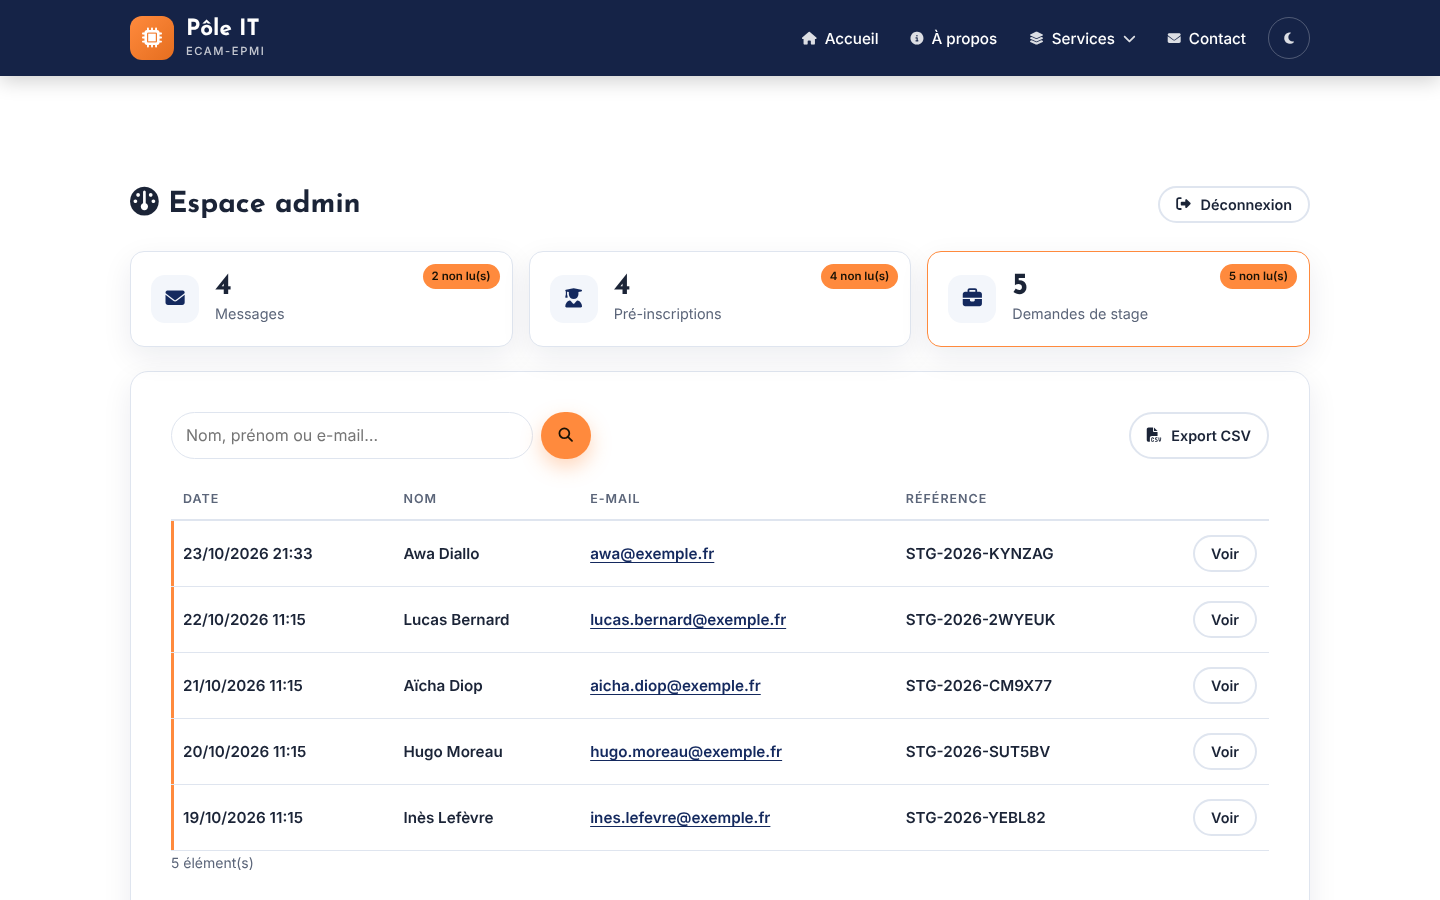
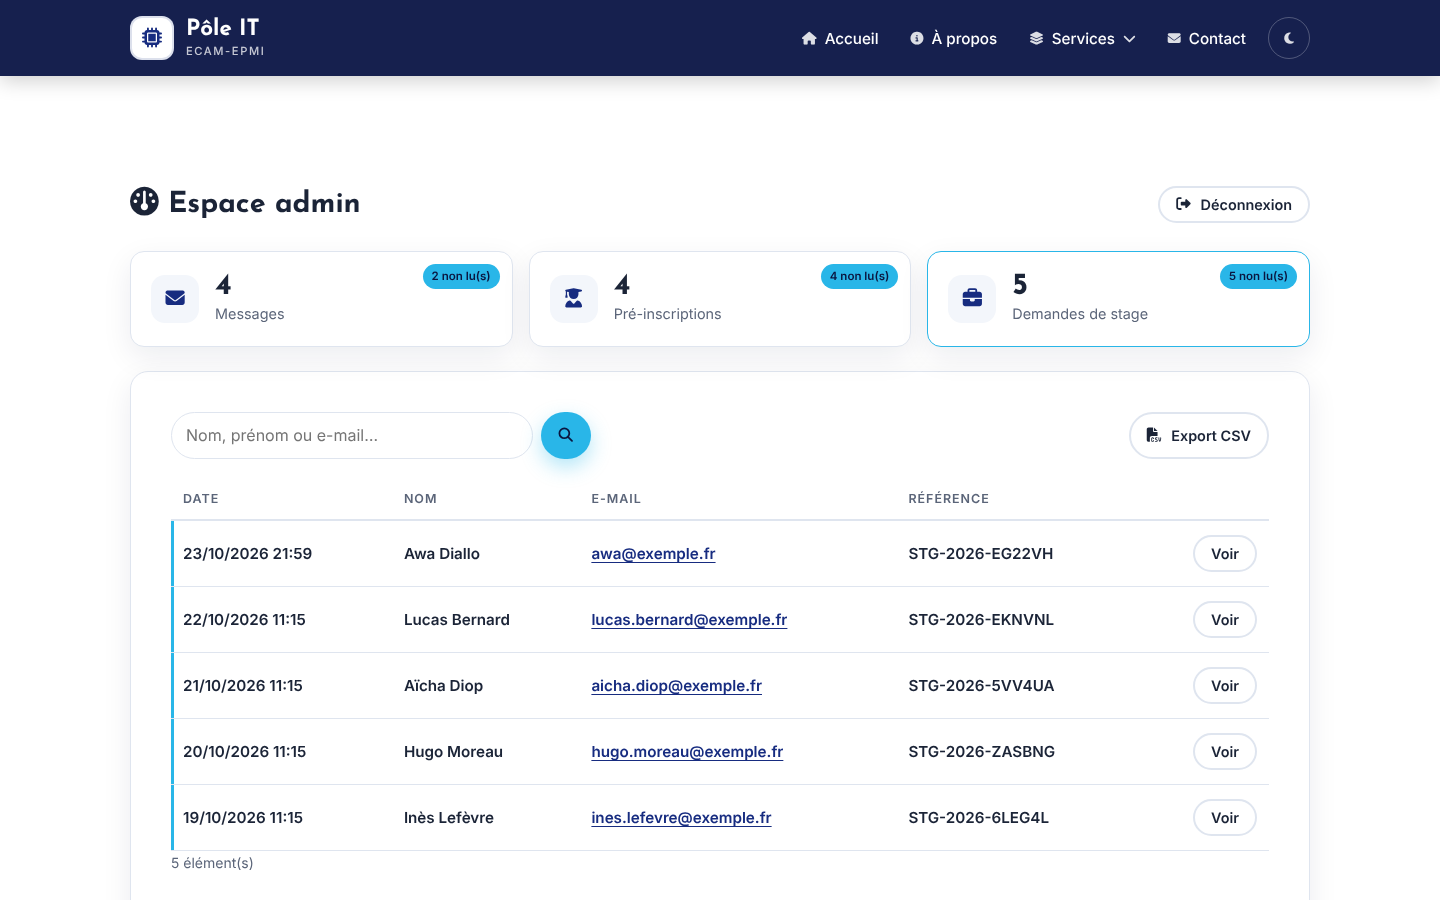
Couleurs ECAM, menu Services, admin et formulaire d'admission
- Palette alignée sur le logo de l'école (bleu #172c80, accent cyan)
- Menu Services : pont de survol, survol lisible en thème sombre, en-tête
  plus contrasté sur les photos
- Admin : ouverture sur l'onglet contenant la demande non lue la plus récente,
  identifiants de démo retirés de la page de connexion
- Retrait du programme « Mastère spécialisé »

Claude-Session: https://claude.ai/code/session_014D3fcoM5SpGnEAzuKeJhJf

diff --git a/public/assets/css/style.css b/public/assets/css/style.css
@@ -5,11 +5,11 @@
    ========================================================================== */
 
 :root {
-    --navy-900: #0b1a3f;
-    --navy-800: #14295e;
-    --navy-600: #24439a;
-    --orange: #ff8a3d;
-    --orange-dark: #e56e1f;
+    --navy-900: #0c1747;
+    --navy-800: #172c80;
+    --navy-600: #3150b4;
+    --cyan: #29b6e8;
+    --cyan-dark: #0f86b8;
 
     --bg: #ffffff;
     --bg-alt: #f3f6fb;
@@ -18,7 +18,7 @@
     --muted: #5b6579;
     --border: #dfe5ef;
     --primary: var(--navy-800);
-    --accent: var(--orange);
+    --accent: var(--cyan);
     --danger: #c62828;
     --success: #1f7a4d;
     --shadow: 0 10px 30px rgba(15, 30, 70, .08);
@@ -112,11 +112,12 @@ code { background: var(--bg-alt); padding: .1em .4em; border-radius: 4px; }
 .site-header {
     position: fixed; inset: 0 0 auto; z-index: 50; height: var(--header-h);
     color: #fff; transition: background .3s, box-shadow .3s;
+    background: linear-gradient(rgba(12, 23, 71, .75), rgba(12, 23, 71, 0));
 }
 .site-header.is-scrolled,
 body:not(:has(.hero)) .site-header,
 .nav-open .site-header {
-    background: rgba(11, 26, 63, .96);
+    background: rgba(12, 23, 71, .96);
     backdrop-filter: blur(10px);
     box-shadow: 0 4px 20px rgba(0, 0, 0, .2);
 }
@@ -127,7 +128,7 @@ body:not(:has(.hero)) main { padding-top: var(--header-h); }
 .brand { display: inline-flex; align-items: center; gap: 12px; color: inherit; text-decoration: none; }
 .brand-mark {
     display: grid; place-items: center; width: 44px; height: 44px; border-radius: 12px;
-    background: linear-gradient(135deg, var(--orange), var(--orange-dark)); color: #fff; font-size: 1.25rem;
+    background: #fff; color: var(--navy-800); font-size: 1.25rem; box-shadow: inset 0 0 0 2px rgba(23, 44, 128, .15);
 }
 .brand-text { font-family: var(--font-title); font-weight: 700; font-size: 1.4rem; line-height: 1; display: flex; flex-direction: column; }
 .brand-text small { font-family: var(--font-body); font-size: .7rem; font-weight: 500; letter-spacing: .14em; opacity: .75; margin-top: 4px; }
@@ -140,19 +141,20 @@ body:not(:has(.hero)) main { padding-top: var(--header-h); }
     transition: background .2s;
 }
 .main-nav a:hover, .main-nav button:hover { background: rgba(255, 255, 255, .12); }
-.main-nav a[aria-current="page"], .main-nav button.is-current { background: rgba(255, 138, 61, .22); color: #ffd2b3; }
+.main-nav a[aria-current="page"], .main-nav button.is-current { background: rgba(41, 182, 232, .22); color: #bfeaff; }
 .main-nav i { font-size: .85em; opacity: .85; }
 .caret { transition: transform .2s; }
 
 .has-submenu { position: relative; }
+.has-submenu::after { content: ""; position: absolute; left: 0; right: 0; top: 100%; height: 12px; } /* pont invisible : le menu reste ouvert pendant que la souris descend */
 .submenu {
     position: absolute; top: calc(100% + 8px); left: 0; min-width: 220px; list-style: none; margin: 0; padding: 8px;
     background: #fff; border-radius: var(--radius); box-shadow: var(--shadow-lg);
     opacity: 0; visibility: hidden; transform: translateY(-6px); transition: .2s;
 }
 .submenu a { color: var(--navy-900); width: 100%; border-radius: var(--radius-sm); }
-.submenu a:hover { background: var(--bg-alt); }
-.submenu a[aria-current="page"] { background: #fff1e7; color: var(--orange-dark); }
+.submenu a:hover { background: #eef2fb; color: var(--navy-800); }
+.submenu a[aria-current="page"] { background: #e6f6fd; color: var(--cyan-dark); }
 .has-submenu.is-open .submenu,
 .has-submenu:hover .submenu { opacity: 1; visibility: visible; transform: none; }
 .has-submenu.is-open .caret { transform: rotate(180deg); }
@@ -179,7 +181,7 @@ body:not(:has(.hero)) main { padding-top: var(--header-h); }
     .has-submenu.is-open .submenu { display: block; }
     .submenu a { color: #fff; }
     .submenu a:hover { background: rgba(255, 255, 255, .1); }
-    .submenu a[aria-current="page"] { background: rgba(255, 138, 61, .22); color: #ffd2b3; }
+    .submenu a[aria-current="page"] { background: rgba(41, 182, 232, .22); color: #bfeaff; }
     .main-nav .theme-toggle { width: 42px; align-self: flex-start; margin-top: 8px; }
 }
 
@@ -193,7 +195,7 @@ body:not(:has(.hero)) main { padding-top: var(--header-h); }
 @keyframes kenburns { from { transform: scale(1); } to { transform: scale(1.08); } }
 .hero-overlay {
     position: absolute; inset: 0;
-    background: linear-gradient(110deg, rgba(11, 26, 63, .92) 0%, rgba(11, 26, 63, .65) 50%, rgba(11, 26, 63, .35) 100%);
+    background: linear-gradient(110deg, rgba(12, 23, 71, .92) 0%, rgba(12, 23, 71, .65) 50%, rgba(12, 23, 71, .35) 100%);
 }
 .hero-content { position: relative; padding-block: 120px 80px; max-width: var(--container); }
 .hero h1 { font-size: clamp(2.6rem, 7vw, 5.5rem); margin-bottom: .3em; }
@@ -216,8 +218,8 @@ body:not(:has(.hero)) main { padding-top: var(--header-h); }
 }
 .btn:hover { transform: translateY(-2px); }
 .btn:active { transform: none; }
-.btn-primary { background: var(--accent); color: #1a1205; box-shadow: 0 8px 20px rgba(255, 138, 61, .35); }
-.btn-primary:hover { background: #ff9d5c; }
+.btn-primary { background: var(--accent); color: #0a1640; box-shadow: 0 8px 20px rgba(41, 182, 232, .35); }
+.btn-primary:hover { background: #52c7f0; }
 .btn-ghost { border-color: rgba(255, 255, 255, .7); color: #fff; }
 .btn-ghost:hover { background: #fff; color: var(--navy-900); }
 .btn-ghost-dark { border-color: var(--border); color: var(--text); background: var(--surface); }
@@ -246,7 +248,7 @@ body:not(:has(.hero)) main { padding-top: var(--header-h); }
 .check-list li::before {
     content: "\f00c"; font-family: "Font Awesome 6 Free"; font-weight: 900; position: absolute; left: 0; top: 2px;
     width: 22px; height: 22px; display: grid; place-items: center; font-size: .7rem;
-    border-radius: 50%; background: rgba(255, 138, 61, .18); color: var(--orange-dark);
+    border-radius: 50%; background: rgba(41, 182, 232, .18); color: var(--cyan-dark);
 }
 
 /* ---------- Statistiques ---------- */
@@ -267,7 +269,7 @@ body:not(:has(.hero)) main { padding-top: var(--header-h); }
     padding: 32px 28px; box-shadow: var(--shadow); transition: transform .25s, box-shadow .25s, border-color .25s;
     color: inherit; text-decoration: none; display: flex; flex-direction: column;
 }
-.card:hover { transform: translateY(-6px); box-shadow: var(--shadow-lg); border-color: rgba(255, 138, 61, .5); }
+.card:hover { transform: translateY(-6px); box-shadow: var(--shadow-lg); border-color: rgba(41, 182, 232, .5); }
 .card h3 { font-size: 1.3rem; }
 .card p { color: var(--muted); }
 .card .link-arrow { margin-top: auto; }
@@ -322,7 +324,7 @@ body:not(:has(.hero)) main { padding-top: var(--header-h); }
 .alert { padding: 14px 18px; border-radius: var(--radius-sm); margin: 24px 0; border-left: 4px solid; font-weight: 500; }
 .alert-success { background: rgba(31, 122, 77, .1); border-color: var(--success); color: var(--success); }
 .alert-error { background: rgba(198, 40, 40, .1); border-color: var(--danger); color: var(--danger); }
-.alert-info { background: rgba(36, 67, 154, .08); border-color: var(--navy-600); color: var(--text); }
+.alert-info { background: rgba(49, 80, 180, .08); border-color: var(--navy-600); color: var(--text); }
 :root[data-theme="dark"] .alert-success { color: #6fd7a3; }
 :root[data-theme="dark"] .alert-error { color: #ff8a8a; }
 @media (prefers-color-scheme: dark) {
@@ -341,19 +343,19 @@ body:not(:has(.hero)) main { padding-top: var(--header-h); }
 
 .field { margin-bottom: 18px; }
 .field label { display: block; font-weight: 600; font-size: .92rem; margin-bottom: 6px; }
-.req { color: var(--orange-dark); }
+.req { color: var(--cyan-dark); }
 .field input, .field select, .field textarea {
     width: 100%; padding: 12px 14px; font: inherit; color: var(--text); background: var(--bg);
     border: 1.5px solid var(--border); border-radius: var(--radius-sm); transition: border-color .2s, box-shadow .2s;
 }
 .field textarea { resize: vertical; min-height: 140px; }
-.field input:focus, .field select:focus, .field textarea:focus { outline: none; border-color: var(--navy-600); box-shadow: 0 0 0 4px rgba(36, 67, 154, .15); }
+.field input:focus, .field select:focus, .field textarea:focus { outline: none; border-color: var(--navy-600); box-shadow: 0 0 0 4px rgba(49, 80, 180, .15); }
 .field.has-error input, .field.has-error select, .field.has-error textarea { border-color: var(--danger); }
 .hint { font-size: .82rem; color: var(--muted); margin: 6px 0 0; }
 .error { font-size: .85rem; color: var(--danger); margin: 6px 0 0; font-weight: 500; }
 .error::before { content: "\f071"; font-family: "Font Awesome 6 Free"; font-weight: 900; margin-right: 6px; }
 .checkbox label { display: flex; gap: 10px; align-items: flex-start; font-weight: 400; }
-.checkbox input { width: 18px; height: 18px; margin-top: 4px; accent-color: var(--orange-dark); flex: none; }
+.checkbox input { width: 18px; height: 18px; margin-top: 4px; accent-color: var(--cyan-dark); flex: none; }
 .hp { position: absolute; left: -9999px; width: 1px; height: 1px; overflow: hidden; }
 
 /* Formulaire multi-étapes */
@@ -361,7 +363,7 @@ body:not(:has(.hero)) main { padding-top: var(--header-h); }
 .steps li { flex: 1; display: flex; align-items: center; gap: 10px; font-weight: 600; color: var(--muted); font-size: .92rem; padding-bottom: 12px; border-bottom: 3px solid var(--border); transition: .3s; }
 .steps span { width: 30px; height: 30px; border-radius: 50%; display: grid; place-items: center; background: var(--bg-alt); border: 1px solid var(--border); flex: none; }
 .steps li.is-active { color: var(--text); border-color: var(--accent); }
-.steps li.is-active span { background: var(--accent); border-color: var(--accent); color: #1a1205; }
+.steps li.is-active span { background: var(--accent); border-color: var(--accent); color: #0a1640; }
 .steps li.is-done { color: var(--success); border-color: var(--success); }
 .steps li.is-done span { background: var(--success); color: #fff; border-color: var(--success); }
 @media (max-width: 560px) { .steps li { font-size: 0; gap: 0; justify-content: center; } .steps span { font-size: .9rem; } }
@@ -411,7 +413,7 @@ body:not(:has(.hero)) main { padding-top: var(--header-h); }
 .kpi > i { grid-row: span 2; width: 48px; height: 48px; display: grid; place-items: center; border-radius: 14px; background: var(--bg-alt); color: var(--primary); font-size: 1.2rem; }
 .kpi-value { font-family: var(--font-title); font-size: 1.9rem; font-weight: 700; line-height: 1; }
 .kpi-label { color: var(--muted); font-size: .9rem; }
-.pill { position: absolute; top: 12px; right: 12px; background: var(--accent); color: #1a1205; font-size: .72rem; font-weight: 700; padding: 3px 9px; border-radius: 999px; }
+.pill { position: absolute; top: 12px; right: 12px; background: var(--accent); color: #0a1640; font-size: .72rem; font-weight: 700; padding: 3px 9px; border-radius: 999px; }
 .table-tools { display: flex; justify-content: space-between; gap: 12px; margin-bottom: 20px; flex-wrap: wrap; }
 .search { display: flex; gap: 8px; flex: 1; max-width: 420px; }
 .search input { flex: 1; padding: 9px 14px; border: 1.5px solid var(--border); border-radius: 999px; font: inherit; background: var(--bg); color: var(--text); min-width: 0; }
@@ -460,7 +462,7 @@ body:not(:has(.hero)) main { padding-top: var(--header-h); }
     main { padding-top: 0 !important; }
     .section { padding: 0; }
     .panel { box-shadow: none; border: 0; padding: 0; }
-    .fiche-head .brand { color: #14295e; }
+    .fiche-head .brand { color: #172c80; }
     .brand-mark { -webkit-print-color-adjust: exact; print-color-adjust: exact; }
     @page { margin: 18mm; }
 }

diff --git a/public/admin/index.php b/public/admin/index.php
@@ -12,19 +12,22 @@ Auth::require();
 const PER_PAGE = 10;
 
 $tabs = ['messages' => 'Messages', 'admissions' => 'Pré-inscriptions', 'stages' => 'Demandes de stage'];
-$tab = array_key_exists($_GET['t'] ?? '', $tabs) ? $_GET['t'] : 'messages';
+$counts = [];
+foreach (array_keys($tabs) as $t) {
+    $r = new Repository($t);
+    $counts[$t] = ['total' => $r->count(), 'unread' => $r->countUnread(), 'latest' => $r->latestUnread()];
+}
+
+// Sans onglet choisi, on ouvre celui qui contient la demande non lue la plus récente
+$latest = array_filter(array_map(static fn (array $c): ?string => $c['latest'], $counts));
+arsort($latest);
+$tab = array_key_exists($_GET['t'] ?? '', $tabs) ? $_GET['t'] : (array_key_first($latest) ?? 'messages');
 $search = is_string($_GET['q'] ?? null) ? trim($_GET['q']) : '';
 $repo = new Repository($tab);
 
 $total = $repo->count($search);
 $pages = max(1, (int) ceil($total / PER_PAGE));
 $current = min($pages, max(1, (int) ($_GET['p'] ?? 1)));
-
-$counts = [];
-foreach (array_keys($tabs) as $t) {
-    $r = new Repository($t);
-    $counts[$t] = ['total' => $r->count(), 'unread' => $r->countUnread()];
-}
 
 render('admin/dashboard', [
     'page'    => 'admin',

diff --git a/bin/seed.php b/bin/seed.php
@@ -47,7 +47,7 @@ foreach (array_slice($people, 2, 4) as $i => $p) {
     $id = $admissions->insert([
         'prenom' => $p[0], 'nom' => $p[1], 'email' => $mail($p), 'telephone' => '06' . str_pad((string) (12345678 + $i * 1111), 8, '0'),
         'adresse' => (10 + $i) . ' avenue de la Gare', 'code_postal' => '9500' . $i, 'ville' => 'Cergy',
-        'niveau' => $niveaux[$i % 4], 'programme' => $programmes[$i % 4],
+        'niveau' => $niveaux[$i % count($niveaux)], 'programme' => $programmes[$i % count($programmes)],
         'motivation' => "Passionné(e) par le numérique, je souhaite rejoindre le Pôle IT pour me former au développement et aux systèmes embarqués.",
     ]);
     $pdo->prepare('UPDATE admissions SET created_at = ? WHERE id = ?')->execute([$at(5 - $i, 14), $id]);

diff --git a/src/views/admin/login.php b/src/views/admin/login.php
@@ -4,9 +4,6 @@
         <form method="post" action="/admin/login.php" class="form panel">
             <h1 class="section-title">Espace <span>admin</span></h1>
             <?php if ($error): ?><div class="alert alert-error" role="alert"><?= e($error) ?></div><?php endif; ?>
-            <?php if (DEMO_MODE && !getenv('ADMIN_PASSWORD_HASH')): ?>
-                <p class="alert alert-info">Démo : identifiant <code>demo</code>, mot de passe <code>demo</code>.</p>
-            <?php endif; ?>
             <?= Csrf::field() ?>
             <div class="field">
                 <label for="utilisateur">Identifiant</label>

diff --git a/src/views/insertion.php b/src/views/insertion.php
@@ -6,7 +6,7 @@
             <ul class="check-list">
                 <li><strong>80 %</strong> de nos étudiants trouvent un premier emploi avant même l'obtention de leur diplôme.</li>
                 <li>Un salaire d'embauche annuel moyen de <strong>40 000 € brut</strong> la première année.</li>
-                <li>La possibilité de poursuivre ses études : mastères spécialisés, MBA, doctorat.</li>
+                <li>La possibilité de poursuivre ses études : MBA ou doctorat.</li>
             </ul>
             <p class="muted small">Chiffres présentés lors du projet en 2022.</p>
         </div>

diff --git a/src/Repository.php b/src/Repository.php
@@ -91,6 +91,13 @@ final class Repository
         return (int) $this->db()->query("SELECT COUNT(*) FROM {$this->table} WHERE lu = 0")->fetchColumn();
     }
 
+    /** Date du plus récent élément non lu, ou null. */
+    public function latestUnread(): ?string
+    {
+        $value = $this->db()->query("SELECT MAX(created_at) FROM {$this->table} WHERE lu = 0")->fetchColumn();
+        return $value === false || $value === null ? null : (string) $value;
+    }
+
     public function markRead(int $id): void
     {
         $this->db()->prepare("UPDATE {$this->table} SET lu = 1 WHERE id = ?")->execute([$id]);

diff --git a/tests/RepositoryTest.php b/tests/RepositoryTest.php
@@ -54,3 +54,12 @@ test('Repository : table ou colonne inconnue refusée', function () {
     try { (new Repository('stages'))->findBy('1=1 OR reference', 'x'); } catch (InvalidArgumentException) { $thrown = true; }
     assert_true($thrown);
 });
+
+test('Repository : date du plus récent non lu', function () {
+    $repo = new Repository('messages');
+    assert_same(null, $repo->latestUnread());
+    $id = $repo->insert(message('Jean', 'jean@test.fr'));
+    assert_true($repo->latestUnread() !== null);
+    $repo->markRead($id);
+    assert_same(null, $repo->latestUnread());
+});

diff --git a/src/views/layout.php b/src/views/layout.php
@@ -22,7 +22,7 @@ $services = [
     <meta name="viewport" content="width=device-width, initial-scale=1">
     <title><?= e($title) ?></title>
     <meta name="description" content="<?= e($description) ?>">
-    <meta name="theme-color" content="#14295e">
+    <meta name="theme-color" content="#172c80">
     <meta property="og:title" content="<?= e($title) ?>">
     <meta property="og:description" content="<?= e($description) ?>">
     <meta property="og:image" content="/assets/img/amphi-2.jpg">

diff --git a/src/Forms.php b/src/Forms.php
@@ -21,7 +21,6 @@ final class Forms
         'cycle-prepa'   => 'Cycle préparatoire intégré',
         'ingenieur-fi'  => 'Cycle ingénieur, formation initiale',
         'ingenieur-app' => 'Cycle ingénieur par apprentissage',
-        'mastere'       => 'Mastère spécialisé',
     ];
 
     public const DOMAINES = [
